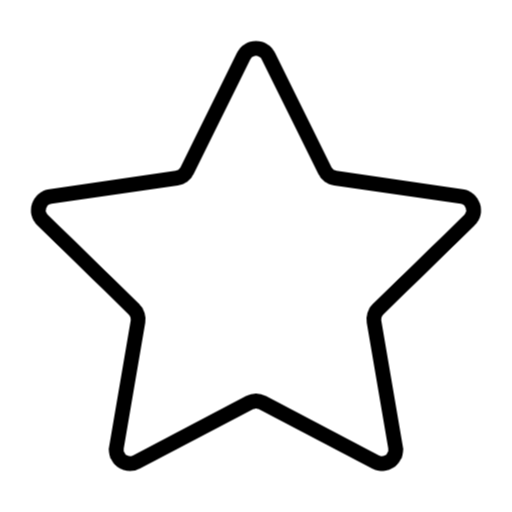
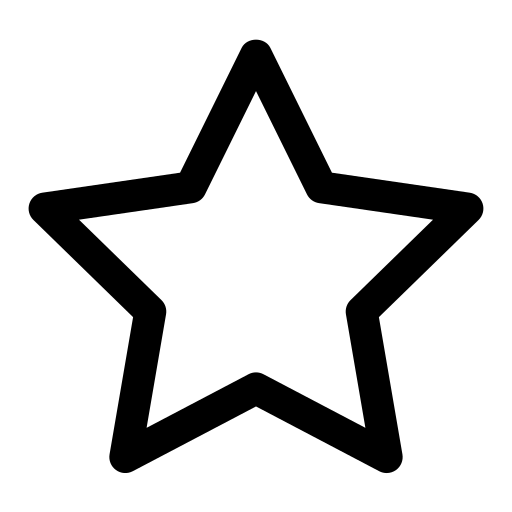
some more styling

Changed region(s): [[0.0312, 0.0625, 0.9688, 0.9375]]

diff --git a/content.js b/content.js
@@ -85,7 +85,7 @@ function createPopup(selectedText, number_of_highlighted_words) {
     } else {
       popup.innerHTML = `
         <div id="popup-styling" style="display: flex; justify-content: space-between;">
-          <img id="btn2" src="${chrome.runtime.getURL("pngs/simple-icon.png")}" alt="simplify" title="simplify" class="context-icons">
+          <img id="btn2" src="${chrome.runtime.getURL("pngs/simple-icon.png")}" style="height:24px; margin-top:1.5px;" alt="simplify" title="simplify" class="context-icons">
           <img id="btn1" src="${chrome.runtime.getURL("pngs/translate-icon.png")}" alt="translate" title="translate" class="context-icons">
           <img id="btn3" src="${chrome.runtime.getURL("pngs/audio-icon.png")}" alt="audio" title="audio" class="context-icons">
           <button class="closePopup">X</button>
@@ -189,7 +189,7 @@ function simplify(selectedText, level, number_of_highlighted_words) {
   choicePopup.style.zIndex = "9000";
   choicePopup.style.boxShadow = "rgba(0, 0, 0, 0.24) 0px 3px 8px";
   choicePopup.innerHTML = `
-    <div id="choicePopup" style="padding: 2px 6px;">
+    <div id="choicePopup" style="padding: 2px 0px 2px 6px;">
       <div style="display: flex; justify-content: space-between;">
         <p style="color: #555555; margin: 4px 0px 8px 0px">Simplified content</p>
         <button class="closePopup">X</button>
@@ -270,7 +270,7 @@ function simplify(selectedText, level, number_of_highlighted_words) {
             <div id="toast-copy">
               Saved to clipboard!
             </div>
-            <img id="btn-vocab" src="${chrome.runtime.getURL("pngs/star.png")}" alt="add to vocabulary list" title="add to vocabulary list" class="context-icons">
+            <img id="btn-vocab" src="${chrome.runtime.getURL("pngs/star.png")}" style="height: 20px; margin: 0px 0px 2px 0px;" alt="add to vocabulary list" title="add to vocabulary list" class="context-icons">
             <div id="toast">
               Saved!
             </div>
@@ -462,6 +462,12 @@ function translateGPT(selectedText, number_of_highlighted_words) {
             <p class="choice-text">Currently only available for translating from German to English</p>
           </div>
         `;
+        setTimeout(() => {
+          document.querySelector(".closePopup").addEventListener("click", () => {
+            choicePopup.remove();
+            cleanup();
+          });
+        }, 100);
       } else {
         const translation = JSON.parse(data.translated);
 
@@ -479,13 +485,13 @@ function translateGPT(selectedText, number_of_highlighted_words) {
             <p class="choice-text">${translation.translation}</p>
             <div id="choice-popup-styling" class="three" style="${number_of_highlighted_words === 1 ? "width: 100px" : ""}">
               <img id="btn-audio" src="${chrome.runtime.getURL("pngs/audio-icon.png")}" alt="audio" title="audio" class="context-icons">
-              <img id="btn-simple" src="${chrome.runtime.getURL("pngs/simple-icon.png")}" alt="simplify" title="simplify" class="context-icons">
+              <img id="btn-simple" src="${chrome.runtime.getURL("pngs/simple-icon.png")}" style="height: 20px; margin: 2px 2px 1px 6px;" alt="simplify" title="simplify" class="context-icons">
               <img id="btn-copy" src="${chrome.runtime.getURL("pngs/copy-icon.png")}" alt="copy" title="copy" class="context-icons">
               <div id="toast-copy">
                 Saved to clipboard!
               </div>
-              <div style="margin:0px; height: 22px; padding:0px;${number_of_highlighted_words > 1 ? "display: none" : ""}">
-                <img id="btn-vocab" src="${chrome.runtime.getURL("pngs/star.png")}" alt="add to vocabulary list" title="add to vocabulary list" class="context-icons">
+              <div style="margin: 0px 0px 1px 2px; height: 22px; padding:0px;${number_of_highlighted_words > 1 ? "display: none" : ""}">
+                <img id="btn-vocab" src="${chrome.runtime.getURL("pngs/star.png")}" style="height: 20px; margin: 0px 0px 2px 0px;" alt="add to vocabulary list" title="add to vocabulary list" class="context-icons">
                 <div id="toast">
                   Saved!
                 </div>
@@ -493,40 +499,40 @@ function translateGPT(selectedText, number_of_highlighted_words) {
             </div>
           </div>
         `;
+        setTimeout(() => {
+          document.getElementById("btn-copy")?.addEventListener("click", () => {
+            navigator.clipboard.writeText(translation.translation);
+            const toast = document.getElementById('toast-copy');
+            toast.style.visibility = "visible";
+            setTimeout(() => {
+              toast.style.visibility = "hidden";
+            }, 1000);
+          });
+          document.getElementById("btn-vocab")?.addEventListener("click", () => {
+            const germanWord = translation.article ? `${translation.article} ${selectedText}` : selectedText
+            save_vocabulary(germanWord, translation.translation, translation.word_type)
+            const toast = document.getElementById('toast');
+            toast.style.visibility = "visible";
+            setTimeout(() => {
+              toast.style.visibility = "hidden";
+            }, 1000);
+          });
+          document.getElementById("btn-simple")?.addEventListener("click", () => {
+            chrome.storage.local.get("language_level" , (data) => {
+              const level = data.language_level || 'A2';
+              simplify(selectedText, level, number_of_highlighted_words);
+            })
+          });
+          document.getElementById("btn-audio")?.addEventListener("click", () => {
+            pronounce(selectedText, 'de');
+          });
+          document.querySelector(".closePopup").addEventListener("click", () => {
+            choicePopup.remove();
+            cleanup();
+          });
+        }, 100);
       }
 
-      setTimeout(() => {
-        document.getElementById("btn-copy")?.addEventListener("click", () => {
-          navigator.clipboard.writeText(translation.translation);
-          const toast = document.getElementById('toast-copy');
-          toast.style.visibility = "visible";
-          setTimeout(() => {
-            toast.style.visibility = "hidden";
-          }, 1000);
-        });
-        document.getElementById("btn-vocab")?.addEventListener("click", () => {
-          const germanWord = translation.article ? `${translation.article} ${selectedText}` : selectedText
-          save_vocabulary(germanWord, translation.translation, translation.word_type)
-          const toast = document.getElementById('toast');
-          toast.style.visibility = "visible";
-          setTimeout(() => {
-            toast.style.visibility = "hidden";
-          }, 1000);
-        });
-        document.getElementById("btn-simple")?.addEventListener("click", () => {
-          chrome.storage.local.get("language_level" , (data) => {
-            const level = data.language_level || 'A2';
-            simplify(selectedText, level, number_of_highlighted_words);
-          })
-        });
-        document.getElementById("btn-audio")?.addEventListener("click", () => {
-          pronounce(selectedText, 'de');
-        });
-        document.querySelector(".closePopup").addEventListener("click", () => {
-          choicePopup.remove();
-          cleanup();
-        });
-      }, 100);
 
       function cleanup() {
         document.removeEventListener("click", handleOutsideClick);
@@ -556,7 +562,6 @@ function translateGPT(selectedText, number_of_highlighted_words) {
       window.addEventListener("scroll", handleScroll);
     })
     .catch((err) => {
-      console.log(err)
       choicePopup.innerHTML = `<div style="display: flex; justify-content: space-between;">
                                     <p style="color: #555555; margin: 4px 0px 8px 0px">Fetch failed</p>
                                     <button class="closePopup">X</button>
@@ -634,8 +639,8 @@ function translate_from_simplified(selectedText, number_of_highlighted_words) {
             <div id="toast-copy">
               Saved to clipboard!
             </div>
-            <div style="margin:0px; height: 22px; padding:0px;${number_of_highlighted_words > 1 ? "display: none" : ""}">
-              <img id="btn-vocab" src="${chrome.runtime.getURL("pngs/star.png")}" alt="add to vocabulary list" title="add to vocabulary list" class="context-icons">
+            <div style="margin: 0px 0px 1px 2px; height: 22px; padding:0px;${number_of_highlighted_words > 1 ? "display: none" : ""}">
+              <img id="btn-vocab" src="${chrome.runtime.getURL("pngs/star.png")}" style="height: 20px; margin: 0px 0px 1px 4px;" alt="add to vocabulary list" title="add to vocabulary list" class="context-icons">
               <div id="toast">
                 Saved!
               </div>

diff --git a/popup.js b/popup.js
@@ -112,7 +112,7 @@ document.addEventListener('DOMContentLoaded', () => {
               </div>
             </div>
             <div class="item">
-              <div class="title">Care to Share More?</div>
+              <div class="title">Leave Feedback</div>
               <div class="content" id="pin-popup">
                 <textarea name="feedback" rows="5" id="inputText" placeholder="What would you like to tell us?" style="width: 250px;"></textarea>
                 <br>
